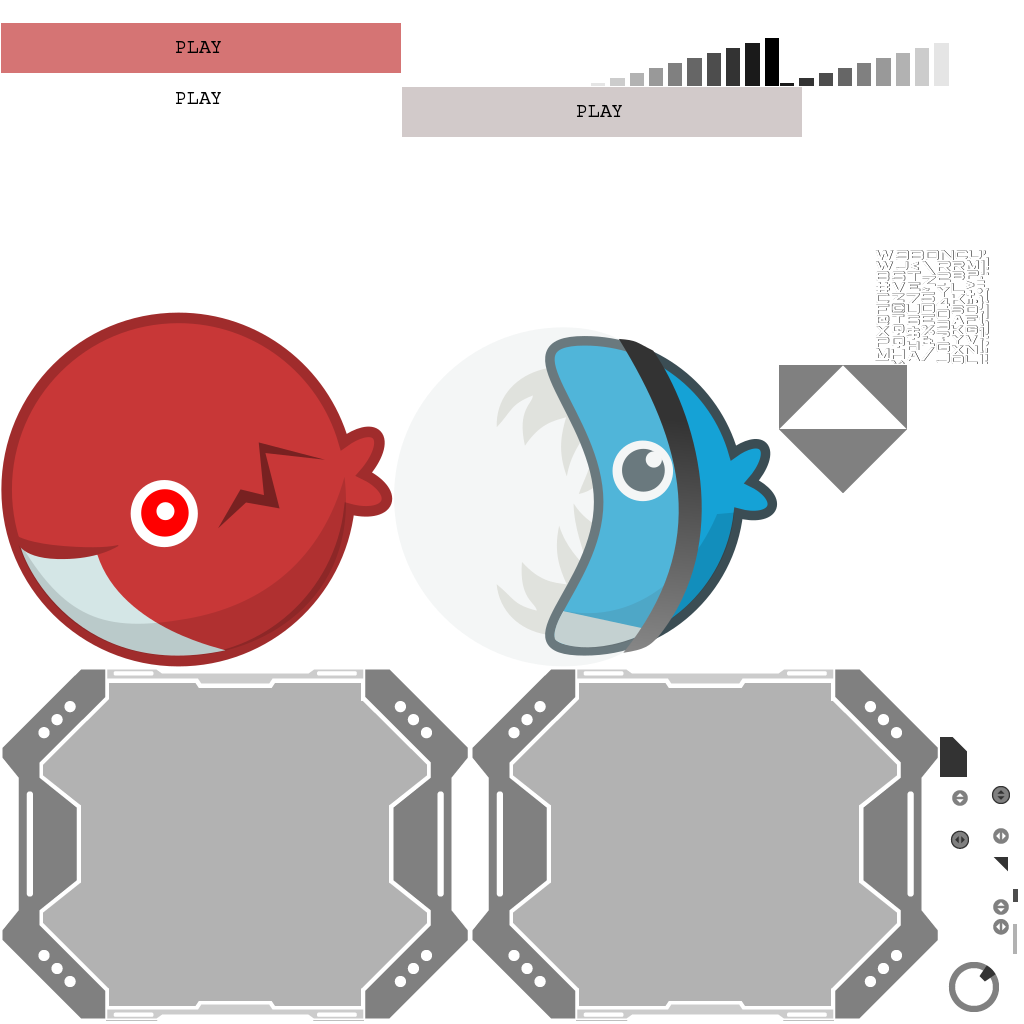
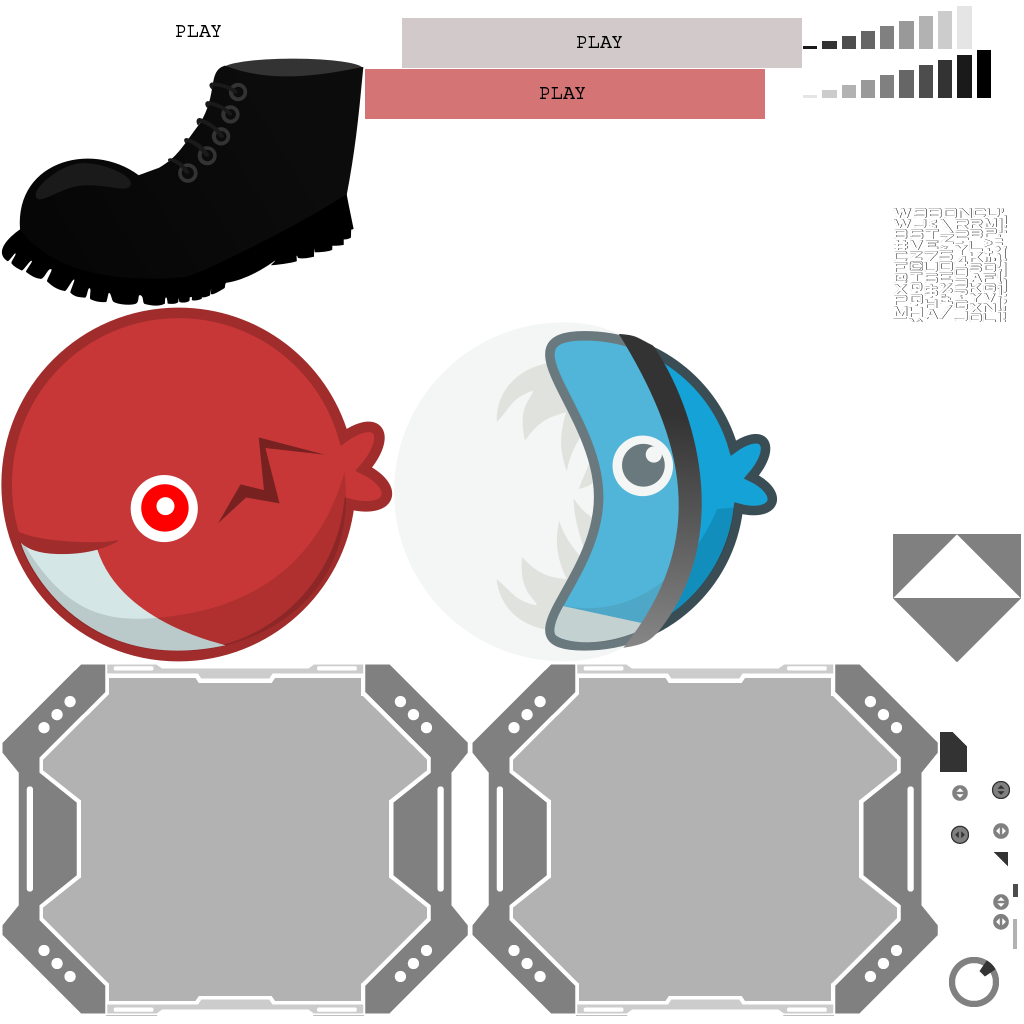
[Spawn/AI] added shoes spawning and rendering

diff --git a/core/src/main/kotlin/com/ownedoutcomes/logic/box2d.kt b/core/src/main/kotlin/com/ownedoutcomes/logic/box2d.kt
@@ -7,6 +7,7 @@ import com.badlogic.gdx.utils.viewport.Viewport
 import com.ownedoutcomes.Runner
 import com.ownedoutcomes.logic.entity.Food
 import com.ownedoutcomes.logic.entity.Player
+import com.ownedoutcomes.logic.entity.Shoe
 import com.ownedoutcomes.view.GameOver
 import ktx.collections.gdxArrayOf
 import ktx.collections.gdxSetOf
@@ -27,10 +28,13 @@ class GameController {
     private lateinit var world: World
     val players = gdxSetOf<Player>()
     val food = gdxSetOf<Food>()
+    val shoes = gdxSetOf<Shoe>()
     val playersToRemove = gdxArrayOf<Player>()
     val foodToRemove = gdxArrayOf<Food>()
+    val shoesToRemove = gdxArrayOf<Shoe>()
     private var timeSinceSpawn = 100f
     private var timeSincePlayerSpawn = 0f
+    private var timeSinceShoeSpawn = 0f
 
     fun reload() {
         world = World(vec2(0f, 0f), true)
@@ -49,12 +53,15 @@ class GameController {
     fun update(delta: Float) {
         spawnPlayers(delta)
         spawnFood(delta)
+        spawnShoe(delta)
         inputController.update()
         world.step(delta, 8, 3)
         players.forEach { it.update(delta) }
         food.forEach { it.update(delta) }
+        shoes.forEach { it.update(delta) }
         removeFood()
         removePlayers()
+        removeShoes()
         // TODO add world bounds
         // TODO remove enemies that touch world bounds
         renderer.render(world, gameViewport.camera.combined)
@@ -72,6 +79,14 @@ class GameController {
         if (timeSinceSpawn > MathUtils.random(1f, 2f)) {
             food.add(Food(world).initiate())
             timeSinceSpawn = 0f
+        }
+    }
+
+    private fun spawnShoe(delta: Float) {
+        timeSinceShoeSpawn += delta
+        if (timeSinceShoeSpawn > MathUtils.random(1f, 2f)) {
+            shoes.add(Shoe(world).initiate())
+            timeSinceShoeSpawn = 0f
         }
     }
 
@@ -98,12 +113,24 @@ class GameController {
         }
     }
 
+    private fun removeShoes() {
+        if (shoesToRemove.isNotEmpty()) {
+            shoesToRemove.forEach {
+                world.destroyBody(it.body)
+                shoes.remove(it)
+            }
+            shoesToRemove.clear()
+        }
+    }
+
     fun destroy() {
         world.dispose()
         players.clear()
         playersToRemove.clear()
         food.clear()
         foodToRemove.clear()
+        shoes.clear()
+        shoesToRemove.clear()
         timeSinceSpawn = 100f
         timeSincePlayerSpawn = 0f
     }

diff --git a/core/src/main/kotlin/com/ownedoutcomes/logic/entity/shoe.kt b/core/src/main/kotlin/com/ownedoutcomes/logic/entity/shoe.kt
@@ -1,0 +1,49 @@
+package com.ownedoutcomes.logic.entity
+
+import com.badlogic.gdx.math.MathUtils
+import com.badlogic.gdx.physics.box2d.*
+
+class Shoe(world: World) : AbstractEntity(world) {
+    var size = getRandomSize()
+    var speedBonus = MathUtils.random(0.8f, 1.5f)
+
+    override fun createBody(world: World): Body {
+        val circle = CircleShape()
+        size = getRandomSize()
+        circle.radius = size
+        val body = BodyDef().apply {
+            type = BodyDef.BodyType.DynamicBody
+            fixedRotation = true
+            linearDamping = 1f
+            position.x = 0f
+            position.y = 2f
+        }
+        val fixture = FixtureDef().apply {
+            shape = circle
+            density = 20f
+            friction = 0.3f
+            restitution = 0.1f
+            filter.categoryBits = shoeGroup
+            filter.maskBits = foodGroup
+        }
+        val result = world.createBody(body)
+        result.createFixture(fixture).userData = this
+        return result
+    }
+
+    override fun initiate(): Shoe = super.initiate() as Shoe
+
+    private fun getRandomSize(): Float {
+        val random = Math.abs(MathUtils.random(-0.4f, 1f))
+        return if (random < 0.1f) 0.1f else random // TODO uzaleznic od wielkosci gracza? eee makarena
+    }
+
+    override fun update(delta: Float) {
+        val currentDensity = size * size * MathUtils.PI * playerDensity * speedBonus * MathUtils.random(0.9f, 1.1f)
+        body.applyForceToCenter(
+                body.linearVelocity.x * currentDensity / 4f,
+                body.linearVelocity.y * currentDensity / 4f,
+                true)
+        body.applyForceToCenter(0f, -currentDensity, true)
+    }
+}

diff --git a/core/src/main/kotlin/com/ownedoutcomes/logic/renderer.kt b/core/src/main/kotlin/com/ownedoutcomes/logic/renderer.kt
@@ -9,10 +9,12 @@ import com.badlogic.gdx.scenes.scene2d.ui.Skin
 class GameRenderer(val gameController: GameController, val batch: Batch, skin: Skin) {
     private val playerSprite = skin.atlas.createSprite("player0")
     private val enemySprite = skin.atlas.createSprite("enemy0")
+    private val shoeSprite = skin.atlas.createSprite("but")
 
     init {
         playerSprite.setOriginCenter()
         enemySprite.setOriginCenter()
+        shoeSprite.setOriginCenter()
     }
 
     fun render(delta: Float) {
@@ -39,6 +41,16 @@ class GameRenderer(val gameController: GameController, val batch: Batch, skin: S
             enemySprite.setSize(spriteSize, spriteSize)
             enemySprite.flip(it.spawnedLeft, false)
             enemySprite.draw(batch)
+        }
+
+        gameController.shoes.forEach {
+            val shoeSprite = Sprite(shoeSprite)
+            val spriteSize = it.size * 2
+            shoeSprite.x = it.body.position.x - it.size
+            shoeSprite.y = it.body.position.y - it.size
+            shoeSprite.setOrigin(shoeSprite.x, shoeSprite.y)
+            shoeSprite.setSize(spriteSize, spriteSize)
+            shoeSprite.draw(batch)
         }
         batch.end()
     }

diff --git a/core/src/main/kotlin/com/ownedoutcomes/logic/contact.kt b/core/src/main/kotlin/com/ownedoutcomes/logic/contact.kt
@@ -6,6 +6,7 @@ import com.badlogic.gdx.physics.box2d.ContactListener
 import com.badlogic.gdx.physics.box2d.Manifold
 import com.ownedoutcomes.logic.entity.Food
 import com.ownedoutcomes.logic.entity.Player
+import com.ownedoutcomes.logic.entity.Shoe
 
 class ContactController(val gameController: GameController) : ContactListener {
     override fun endContact(contact: Contact) {
@@ -25,6 +26,19 @@ class ContactController(val gameController: GameController) : ContactListener {
                 secondEntity.eat(firstEntity)
             }
         }
+        if (firstEntity is Shoe) {
+            if(secondEntity is Player) {
+                if (firstEntity.size > secondEntity.size * 1.05) {
+                    gameController.playersToRemove.add(secondEntity)
+                }
+            } else if (secondEntity is Food) {
+                if (firstEntity.size > secondEntity.size * 1.05) {
+                    gameController.foodToRemove.add(secondEntity)
+                }
+            }
+
+        }
+
     }
 
     override fun preSolve(contact: Contact?, oldManifold: Manifold?) {

diff --git a/core/src/main/kotlin/com/ownedoutcomes/logic/entity/entity.kt b/core/src/main/kotlin/com/ownedoutcomes/logic/entity/entity.kt
@@ -24,6 +24,8 @@ abstract class AbstractEntity(val world: World) : Entity {
 
 // Collision groups:
 val foodGroup: Short = 0b00000001
+val shoeGroup: Short = 0b00000001
+
 val playerGroup: Short = 0b00000010
 
 val playerCollisionGroup: Short = 0b00000011
